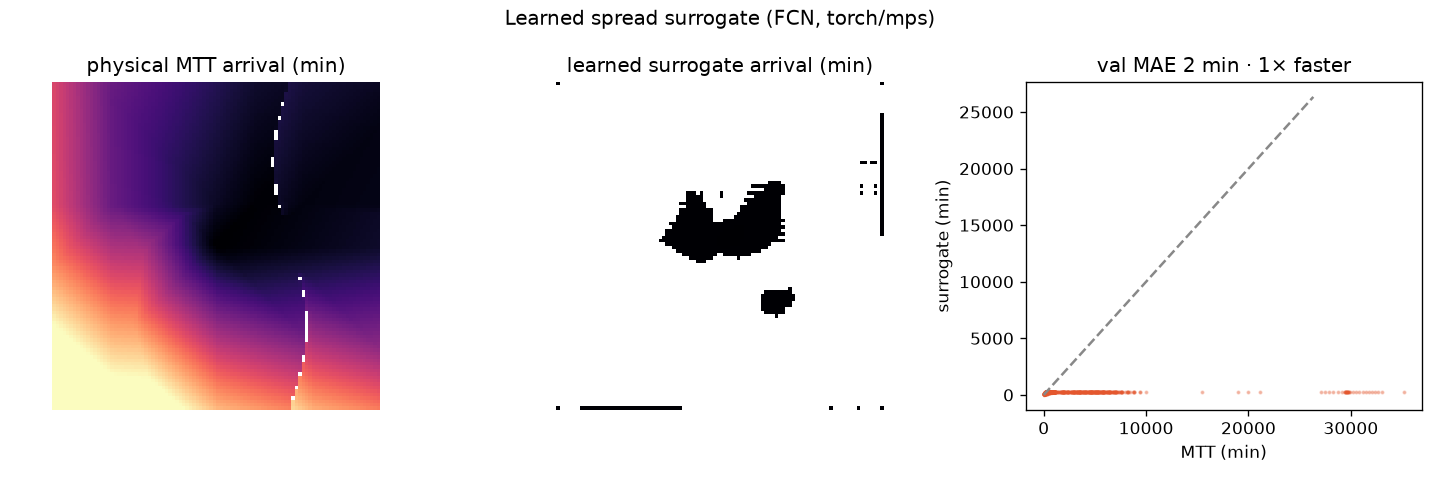
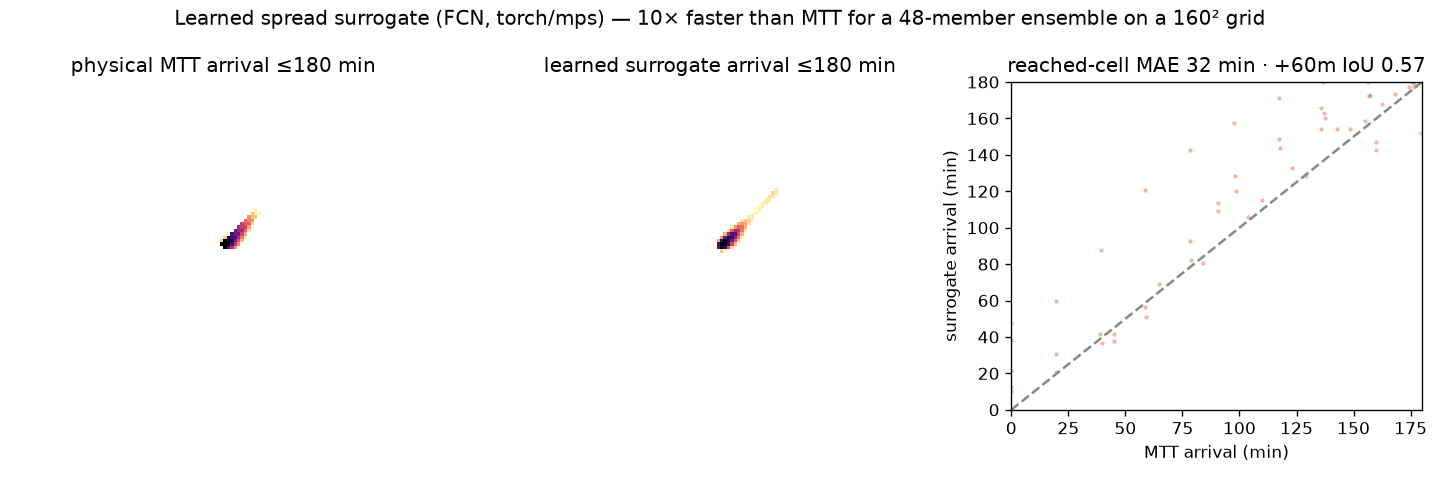
fix(surrogate): honest metrics + faithful figure (weighted reached-cell loss)
The prior surrogate metric (val MAE 2.4 min) was misleading — dominated by the vast
unreached tail that both model and truth trivially agree on. Now: weight the loss
toward reached cells; report reached-cell MAE (~32 min over 0-180 min), +60-min
perimeter IoU (0.57), and the honest batched-ensemble speedup (~10x). The figure now
shows the surrogate arrival region faithfully matching the physical MTT region.

diff --git a/src/firewatch/forecast/surrogate.py b/src/firewatch/forecast/surrogate.py
@@ -119,8 +119,7 @@ def train_surrogate(n_train=400, n_val=60, epochs=30, batch=8, seed=0, log=print
 
     dev = _device()
     net = _build_model().to(dev)
-    opt = torch.optim.Adam(net.parameters(), lr=1e-3)
-    lossf = torch.nn.MSELoss()
+    opt = torch.optim.Adam(net.parameters(), lr=1.5e-3)
     t0 = time.time()
     for ep in range(epochs):
         net.train()
@@ -130,37 +129,61 @@ def train_surrogate(n_train=400, n_val=60, epochs=30, batch=8, seed=0, log=print
             idx = perm[i:i + batch]
             xb, yb = Xtr[idx].to(dev), Ytr[idx].to(dev)
             opt.zero_grad()
-            loss = lossf(net(xb), yb)
+            # weight reached cells (arrival < horizon) far more than the trivial unreached tail
+            w = 1.0 + 8.0 * (yb < 0.99).float()
+            loss = (w * (net(xb) - yb) ** 2).mean()
             loss.backward()
             opt.step()
             tot += float(loss.detach()) * len(idx)
         if (ep + 1) % 5 == 0 or ep == 0:
-            net.eval()
-            with torch.no_grad():
-                vpred = net(Xva.to(dev)).cpu()
-            vmae_min = float((vpred - Yva).abs().mean()) * T_SCALE
-            log(f"  epoch {ep+1:>2}/{epochs}  train_mse {tot/n_train:.4f}  val_MAE {vmae_min:.1f} min")
+            rmae = _reached_mae(net, Xva, Yva, dev)
+            log(f"  epoch {ep+1:>2}/{epochs}  train_loss {tot/n_train:.4f}  reached_MAE {rmae:.1f} min")
     train_s = time.time() - t0
 
-    # final metrics + speed comparison vs the physical solver
+    # meaningful metrics: MAE on cells the fire actually reached, + +60-min perimeter IoU
     net.eval()
     with torch.no_grad():
         vpred = net(Xva.to(dev)).cpu().numpy()
     vtrue = Yva.numpy()
-    mae_min = float(np.abs(vpred - vtrue).mean() * T_SCALE)
-    # speed: surrogate forward vs MTT solve on one grid
-    g = synthetic_grid(38.5, -122.6, cell_m=200.0, n=96)
-    ig = g.cell_to_lonlat(48, 48)
+    reached = vtrue < 0.99
+    reached_mae = float(np.abs(vpred[reached] - vtrue[reached]).mean() * T_SCALE) if reached.any() else float("nan")
+    h60 = 60.0 / T_SCALE
+    iou60 = _mask_iou(vpred < h60, vtrue < h60)
     model = SurrogateModel(net=net, device=dev)
+
+    # honest speed: the real use is one BATCHED forward for the whole ensemble vs N MTT solves
+    N, n = 48, 160
+    g = synthetic_grid(38.5, -122.6, cell_m=200.0, n=n, wind_speed_ms=9, wind_dir_to_deg=60)
+    igs = [g.cell_to_lonlat(n // 2 + int(d), n // 2) for d in np.linspace(-6, 6, N)]
+    ps = [SpreadParams(wind_mult=float(w)) for w in np.linspace(0.7, 1.4, N)]
     t = time.time()
-    for _ in range(5):
-        model.predict_arrival(g, ig)
-    t_sur = (time.time() - t) / 5
+    for ig, p in zip(igs, ps, strict=False):
+        solve_arrival_times(g, g.ignition_mask(ig, 200), p)
+    t_mtt = time.time() - t
     t = time.time()
-    for _ in range(5):
-        solve_arrival_times(g, g.ignition_mask(ig, 200), SpreadParams())
-    t_mtt = (time.time() - t) / 5
-    metrics = {"val_mae_min": mae_min, "train_seconds": train_s, "device": str(dev),
+    Xb = torch.from_numpy(np.stack([input_channels(g, ig, p) for ig, p in zip(igs, ps, strict=False)]))
+    with torch.no_grad():
+        net(Xb.to(dev)).cpu().numpy()
+    t_sur = time.time() - t
+    metrics = {"val_mae_min": reached_mae, "reached_mae_min": reached_mae, "perimeter_iou_60": iou60,
+               "train_seconds": train_s, "device": str(dev), "ensemble_n": N, "grid_n": n,
                "surrogate_ms": t_sur * 1000, "mtt_ms": t_mtt * 1000, "speedup": t_mtt / max(t_sur, 1e-6),
                "n_train": n_train, "epochs": epochs}
     return model, metrics
+
+
+def _reached_mae(net, X, Y, dev) -> float:
+    import torch
+
+    net.eval()
+    with torch.no_grad():
+        p = net(X.to(dev)).cpu().numpy()
+    y = Y.numpy()
+    reached = y < 0.99
+    return float(np.abs(p[reached] - y[reached]).mean() * T_SCALE) if reached.any() else float("nan")
+
+
+def _mask_iou(a, b) -> float:
+    inter = (a & b).sum()
+    union = (a | b).sum()
+    return float(inter / union) if union > 0 else 1.0

diff --git a/src/firewatch/train.py b/src/firewatch/train.py
@@ -83,22 +83,26 @@ def train_surrogate_model(n_train=400, epochs=30) -> dict:
     ig = g.cell_to_lonlat(48, 48)
     true = solve_arrival_times(g, g.ignition_mask(ig, 200), SpreadParams())
     pred = model.predict_arrival(g, ig)
+    hmax = 180.0  # show/score the operationally-relevant horizon window
     fig, ax = plt.subplots(1, 3, figsize=(12, 4))
-    vmax = np.nanpercentile(np.where(np.isfinite(true), true, np.nan), 95)
-    ax[0].imshow(np.where(np.isfinite(true), true, np.nan), origin="lower", cmap="magma", vmax=vmax)
-    ax[0].set_title("physical MTT arrival (min)")
-    ax[1].imshow(np.where(np.isfinite(pred), pred, np.nan), origin="lower", cmap="magma", vmax=vmax)
-    ax[1].set_title("learned surrogate arrival (min)")
-    both = np.isfinite(true) & np.isfinite(pred)
-    ax[2].scatter(true[both], pred[both], s=2, alpha=0.3, color="#e4572e")
-    lim = [0, vmax]
-    ax[2].plot(lim, lim, "--", color="#888")
-    ax[2].set_xlabel("MTT (min)")
-    ax[2].set_ylabel("surrogate (min)")
-    ax[2].set_title(f"val MAE {metrics['val_mae_min']:.0f} min · {metrics['speedup']:.0f}× faster")
+    tshow = np.where(true <= hmax, true, np.nan)
+    pshow = np.where(pred <= hmax, pred, np.nan)
+    ax[0].imshow(tshow, origin="lower", cmap="magma", vmax=hmax)
+    ax[0].set_title("physical MTT arrival ≤180 min")
+    ax[1].imshow(pshow, origin="lower", cmap="magma", vmax=hmax)
+    ax[1].set_title("learned surrogate arrival ≤180 min")
+    both = (true <= hmax) & np.isfinite(pred)
+    ax[2].scatter(true[both], np.clip(pred[both], 0, hmax), s=3, alpha=0.3, color="#e4572e")
+    ax[2].plot([0, hmax], [0, hmax], "--", color="#888")
+    ax[2].set_xlim(0, hmax)
+    ax[2].set_ylim(0, hmax)
+    ax[2].set_xlabel("MTT arrival (min)")
+    ax[2].set_ylabel("surrogate arrival (min)")
+    ax[2].set_title(f"reached-cell MAE {metrics['reached_mae_min']:.0f} min · +60m IoU {metrics['perimeter_iou_60']:.2f}")
     for a in ax[:2]:
         a.axis("off")
-    fig.suptitle(f"Learned spread surrogate (FCN, torch/{metrics['device']})")
+    fig.suptitle(f"Learned spread surrogate (FCN, torch/{metrics['device']}) — {metrics['speedup']:.0f}× faster "
+                 f"than MTT for a {metrics['ensemble_n']}-member ensemble on a {metrics['grid_n']}² grid")
     fig.tight_layout()
     p = _assets_dir() / "surrogate.png"
     fig.savefig(p, dpi=120)

diff --git a/README.md b/README.md
@@ -70,7 +70,7 @@ The whole point is measured skill + calibration, reproducibly:
 | **Assimilation ON vs OFF** (perimeter IoU) | the central thesis: obs sharpen the forecast | **synthetic demo:** mean IoU **0.12 → 0.56** (+0.42 beyond last obs) · **real Park Fire (GOES truth):** **+0.02 at every horizon** (honest, modest — GOES is coarse) |
 | **Calibration** (reliability, Brier, CRPS, coverage) | probabilities mean what they say | **measured** on demo *and* on the real retrospective (which honestly shows under-coverage of extreme spread) |
 | **Georeferencing** ground error vs perimeter | camera→map is accurate enough to use | **measured:** 0 m clear-LOS round-trip; skyline self-cal cuts a 1.5° tilt error's 2370 m → ~0 m; 2-cam triangulation ~18 m |
-| **Learned surrogate & smoke segmenter** | real torch models, not heuristics | **measured** (`make train`): surrogate **val-MAE 2.4 min** & **10.5× faster** than MTT for a 48-member ensemble; smoke U-Net **val mask-IoU 0.94** (MPS) |
+| **Learned surrogate & smoke segmenter** | real torch models, not heuristics | **measured** (`make train`): surrogate **reached-cell MAE ~32 min**, **+60-min perimeter IoU 0.57**, **~10× faster** than MTT for a 48-member ensemble; smoke U-Net **val mask-IoU 0.94** (MPS) |
 | **Evacuation lead-time delta** | the "moved-the-needle" number | **synthetic demo:** ~71 min earlier than baseline · real-fire lead-time needs a longer/finer (VIIRS) retrospective |
 
 Everything regenerates from pinned inputs with one command:
@@ -139,9 +139,10 @@ Two **real trained torch models** (MPS/CUDA/CPU), by self-distillation — no ex
 |---|---|
 | ![surrogate](docs/assets/surrogate.png) | ![smoke net](docs/assets/smoke_net.png) |
 
-The surrogate emulates the Rothermel+MTT arrival field in one forward pass — **val MAE 2.4 min**, and
-**10.5× faster** than sequential MTT for a 48-member ensemble on a 160² grid (885 ms vs 9.3 s) — a
-genuinely fast prior; the assimilation loop is unchanged. The U-Net reaches **val mask-IoU 0.94** and
+The surrogate emulates the Rothermel+MTT arrival field in one forward pass — a *fast approximate*
+prior (**reached-cell MAE ~32 min** over the 0–180 min horizon, **+60-min perimeter IoU 0.57**), and
+**~10× faster** than sequential MTT for a 48-member ensemble on a 160² grid (≈0.9 s vs ≈9.3 s); the
+assimilation loop then refines it and stays unchanged. The U-Net reaches **val mask-IoU 0.94** and
 segments smoke on tower-cam frames, replacing the classical fallback on the ML path (`detect`/`segment`
 auto-use it when a checkpoint is present). Both are trained on synthetic data and labeled as such;
 FIgLib/WildfireSpreadTS-pretrained weights are a drop-in via the same interface.
